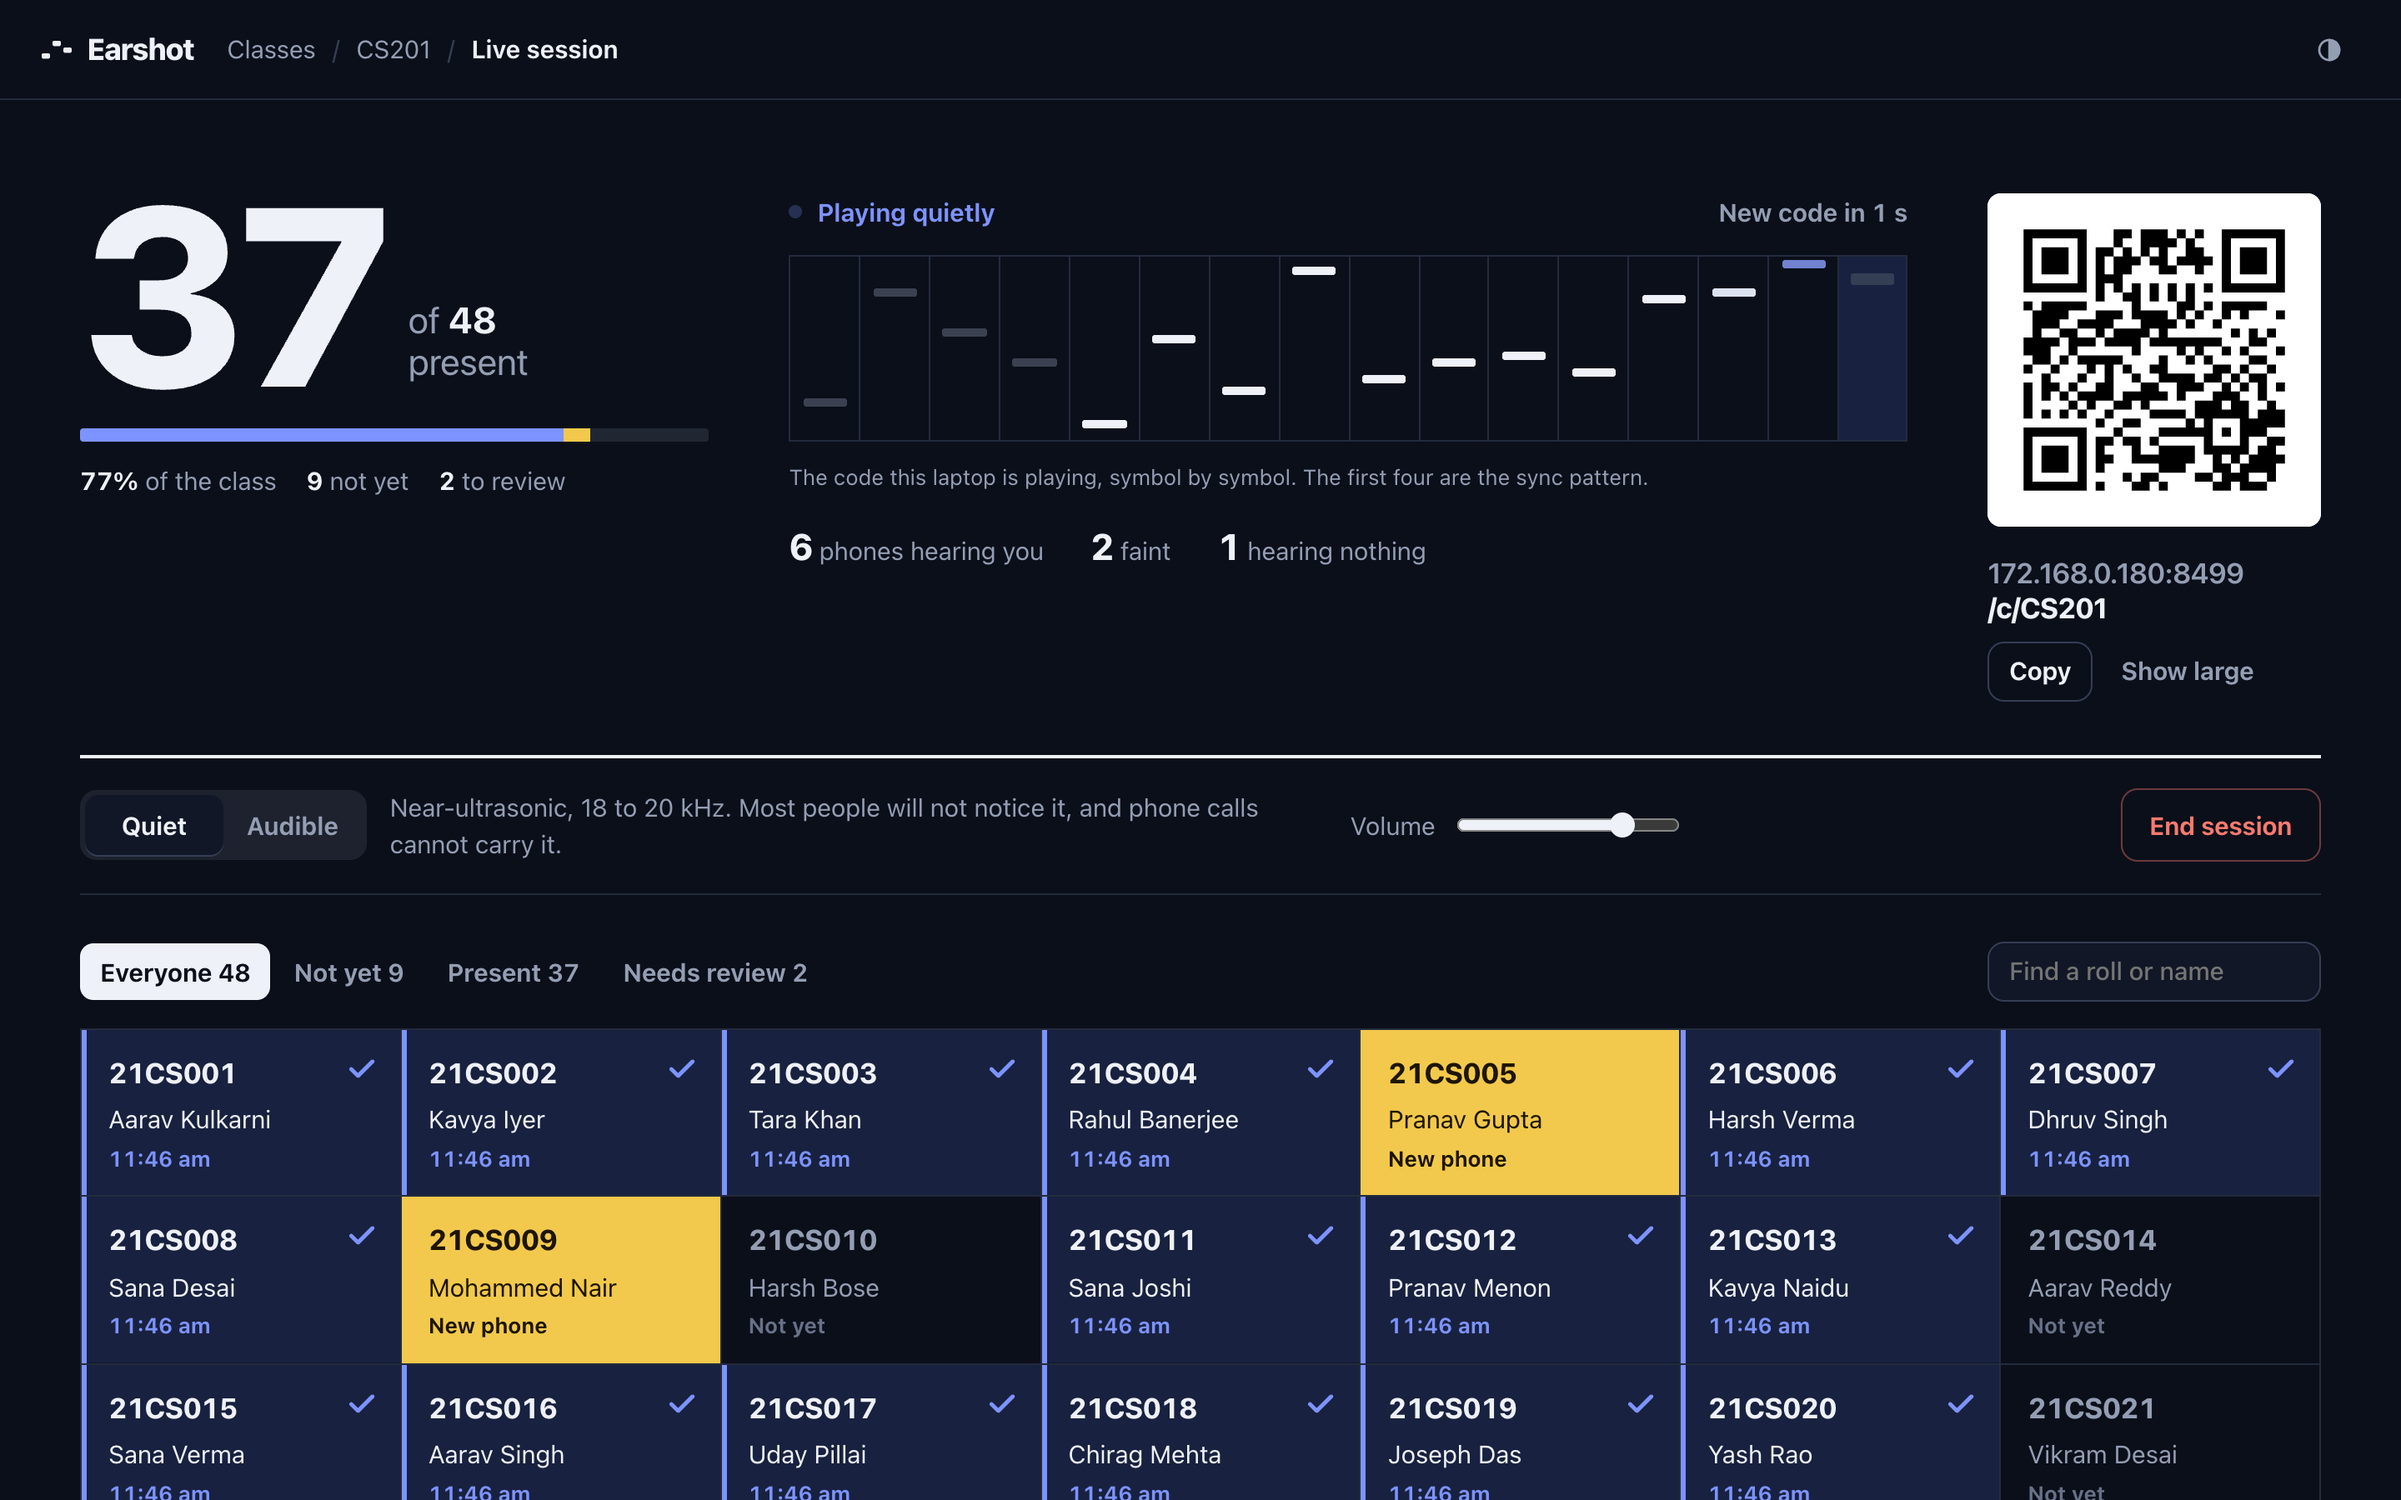
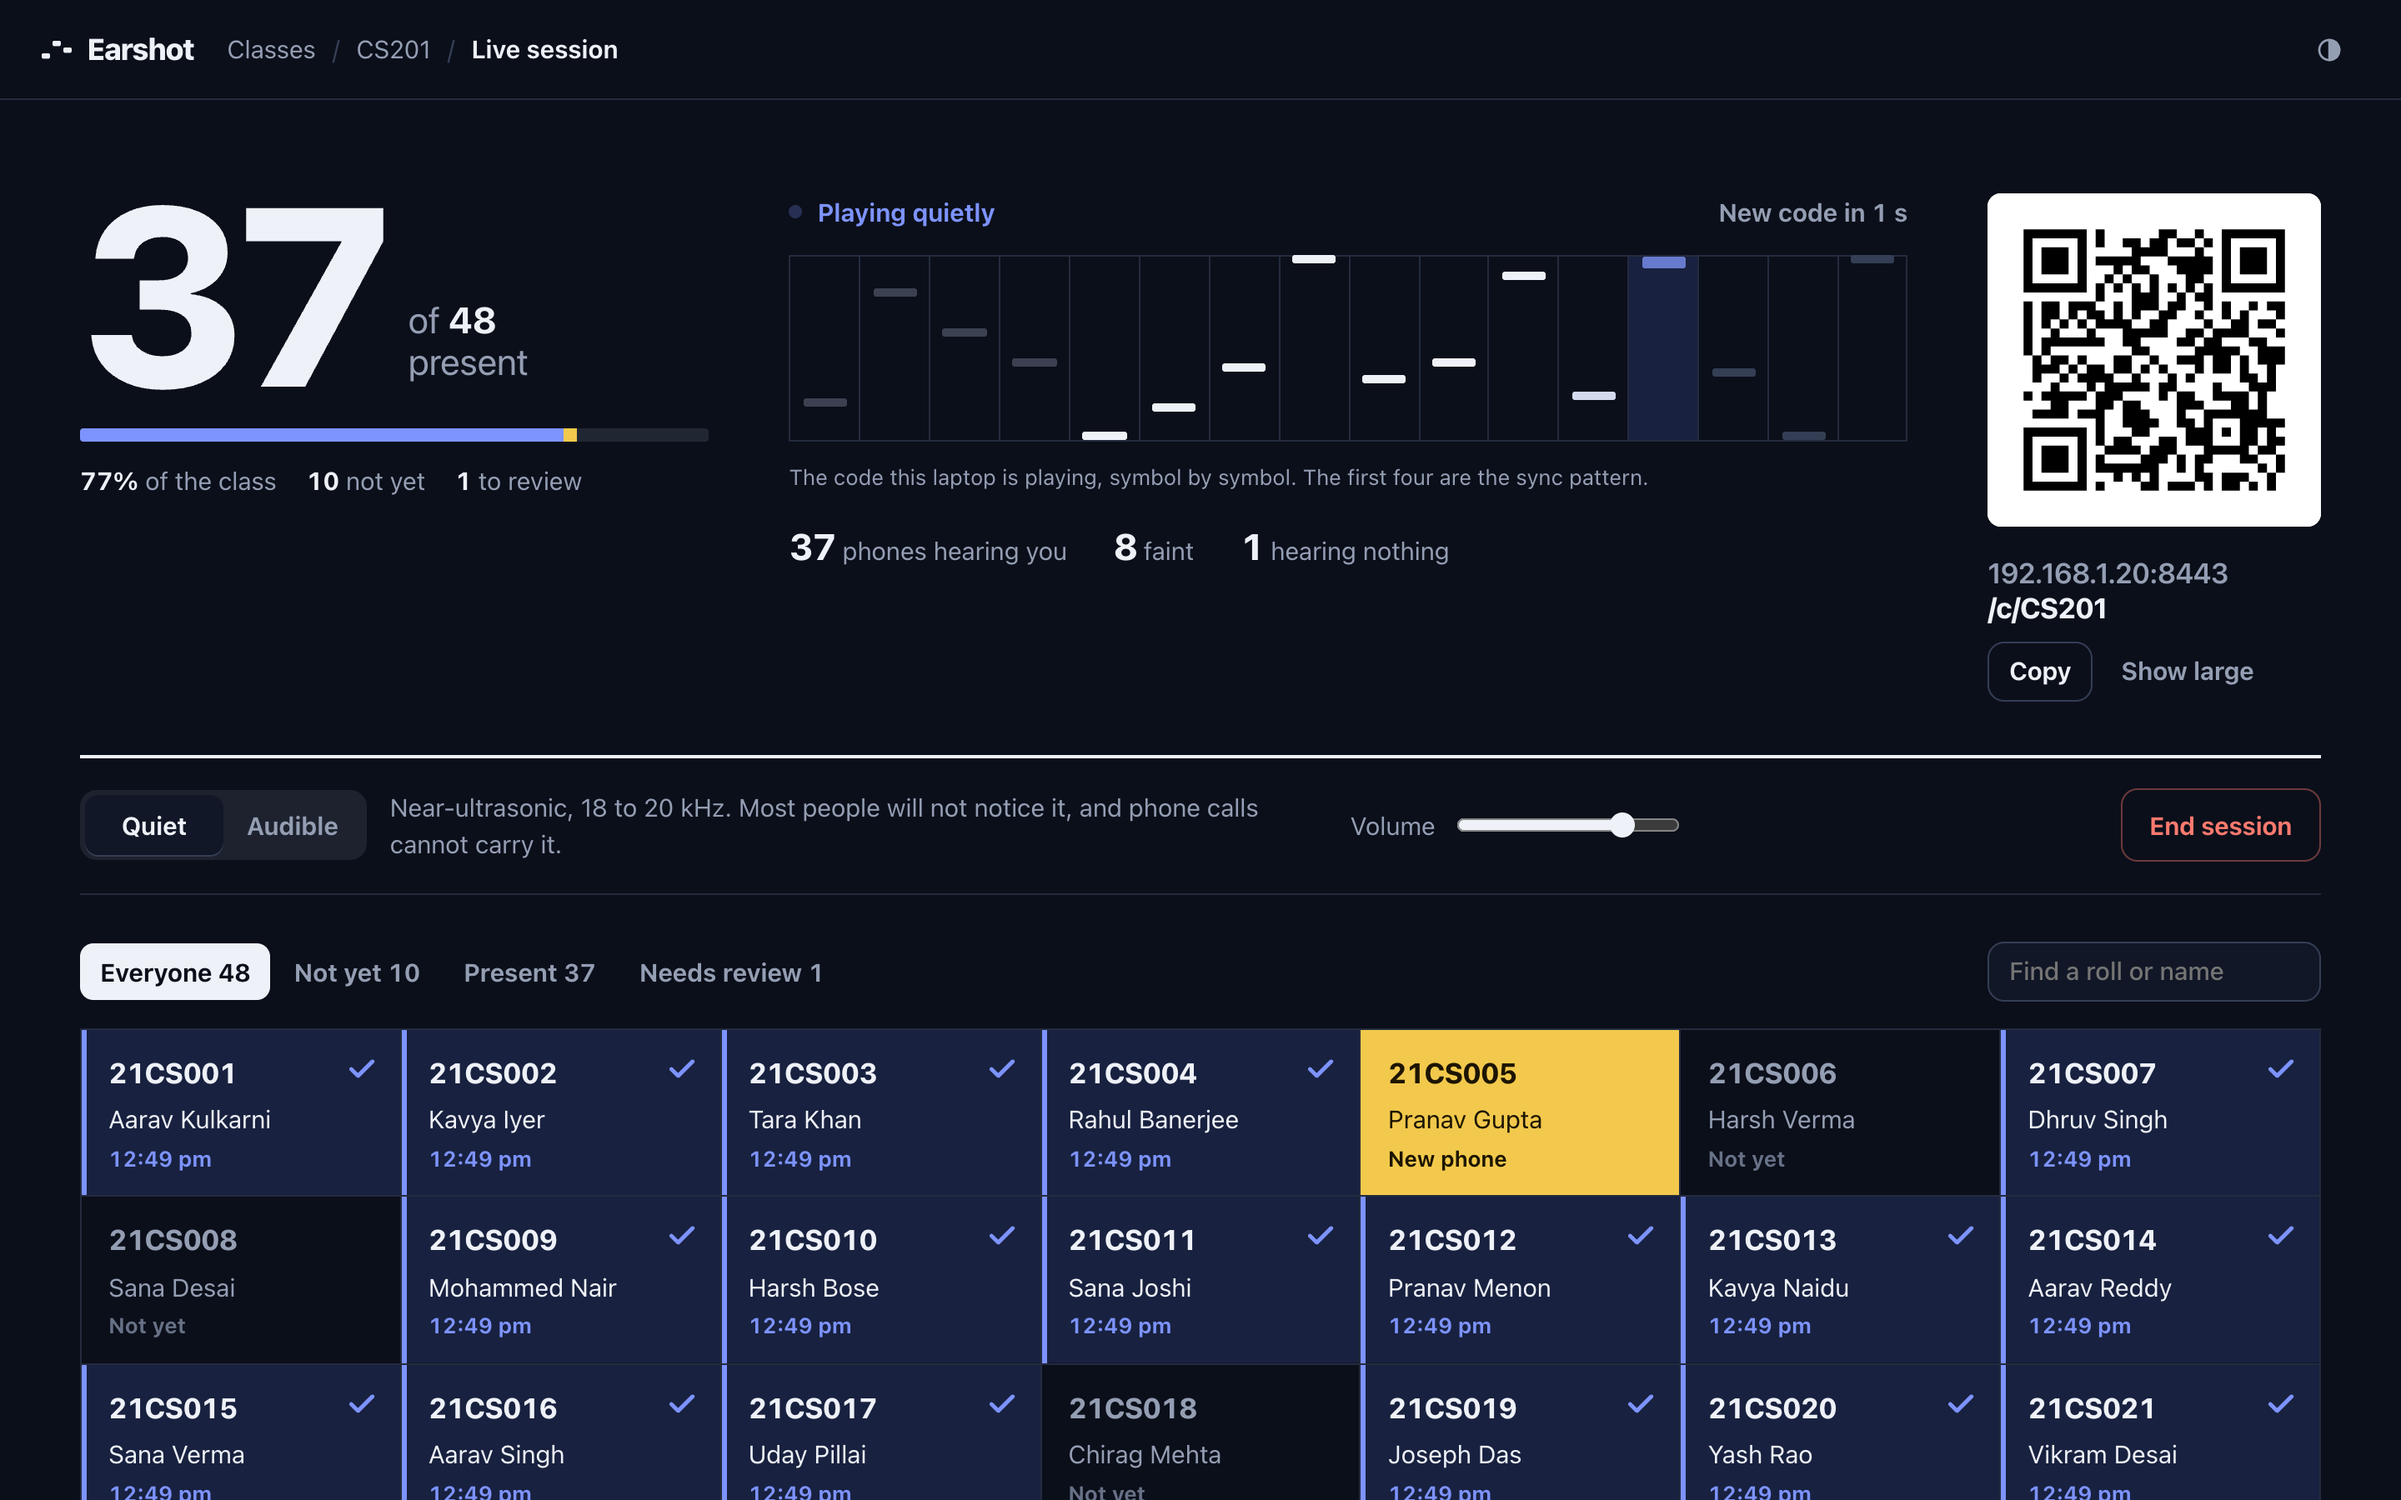
Prepare for public: neutral join address in screenshots and tests, package metadata, README caption and test status

diff --git a/public/student.html b/public/student.html
@@ -14,10 +14,10 @@
   <body>
     <div class="s-shell">
       <header class="s-top">
-        <a class="wordmark" href="#" aria-label="Earshot">
+        <span class="wordmark" aria-label="Earshot">
           <svg viewBox="0 0 20 20" fill="currentColor" aria-hidden="true"><rect x="1" y="12" width="5" height="3.2" rx="1"/><rect x="7.5" y="4.5" width="5" height="3.2" rx="1"/><rect x="14" y="8.5" width="5" height="3.2" rx="1"/></svg>
           Earshot
-        </a>
+        </span>
         <span class="s-course" id="course"></span>
       </header>
       <main id="app" class="s-main" aria-live="polite">

diff --git a/test/qr.test.js b/test/qr.test.js
@@ -6,7 +6,7 @@ import { qrMatrix, qrSvg } from '../public/js/lib/qr.js';
 // structural regressions.
 test('QR picks the smallest version that fits', () => {
   assert.equal(qrMatrix('x').length, 21);
-  assert.equal(qrMatrix('https://172.168.0.180:8443/c/CS201').length, 29);
+  assert.equal(qrMatrix('https://192.168.1.20:8443/c/CS201').length, 29);
   assert.throws(() => qrMatrix('x'.repeat(200)));
 });
 

diff --git a/README.md b/README.md
@@ -2,7 +2,7 @@
 
 Attendance that needs you in the room. The lecturer's laptop plays a short code as sound, mostly above what people notice. Students open a link and hold their phone up. If the phone hears the current code, they are marked present. If they are at home, there is nothing to hear.
 
-![The lecturer's live session: the code being played on the left, the register filling in on the right](docs/screenshots/lecturer-live.png)
+![The lecturer's live session: attendance count, the code being played and the join QR across the top, the register filling in below](docs/screenshots/lecturer-live.png)
 
 ## The problem
 
@@ -175,7 +175,7 @@ test/               node:test suites and the simulated room
 
 ## Known limitations
 
-- **Not yet tested on physical phones or in a real lecture hall.** Everything above is from unit tests, the simulated room, and real Chrome fed with recorded audio. The first real-room session should start with the field test page.
+- **Tested across two laptops, not yet on physical phones or in a real lecture hall.** Beyond a two-laptop check-in over the public tunnel, everything above is from unit tests, the simulated room, and real Chrome fed with recorded audio. The first real-room session should start with the field test page.
 - **Some people can hear 18 kHz,** especially younger listeners, as a faint high hiss. The default volume is moderate and audible mode exists for when the quiet band is a problem either way.
 - **Some phones and laptops filter high frequencies.** Cheap laptop speakers often fall off above 18 kHz, and a few Android microphones roll off above 16 kHz. Audible mode covers both.
 - **iOS may apply its own audio processing** whatever the page asks for. If that removes the quiet band on some iPhones, audible mode is the fallback.
